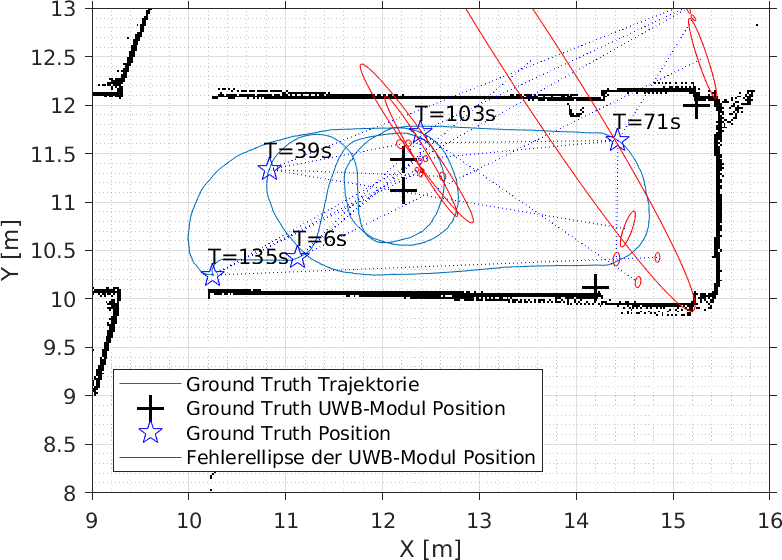
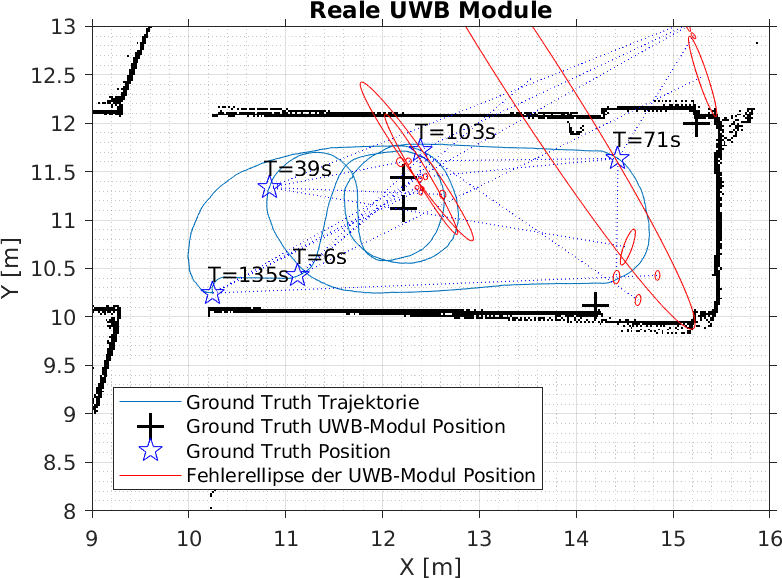
Diagramme aktualisiert.

diff --git a/presentation.tex b/presentation.tex
@@ -498,6 +498,7 @@
 %
 %	- Warum ist die Odometrie so wichtig?
 %	- Wie bin ich an die Ground Truth Trajektorie gekommen?
+%	- /.../bachelor-thesis/auswertungen/trajectory/auswertung.m
 %
 %%%%%%%%%%
 \begin{frame}{Odometrie}
@@ -535,7 +536,7 @@
 
 %%%%%%%%%%%%%%%%%%%%%%%%%%%%%%%%%%%%%%%%%%%%%%%%%%%%%%%%%%%%%%%%%%%%%%%%%%%%%%%%
 %
-% 
+%	- /.../bachelor-thesis/auswertungen/ro_slam_data/pose_diff.m
 %
 %%%%%%%%%%
 \begin{frame}{Positionsschätzung der Roboterplattform}
@@ -573,36 +574,36 @@
 
 %%%%%%%%%%%%%%%%%%%%%%%%%%%%%%%%%%%%%%%%%%%%%%%%%%%%%%%%%%%%%%%%%%%%%%%%%%%%%%%%
 %
-% 
+%	- /.../bachelor-thesis/auswertungen/ro_slam_data/viz_bor_mean_cov.m
 %
 %%%%%%%%%%
 \begin{frame}{Positionsschätzung der UWB Module}
 
 	\begin{figure}
 		\centering
-		\begin{subfigure}{0.4\linewidth}
+		\begin{subfigure}{0.41\linewidth}
 			\centering
 			\includegraphics[width=\linewidth]{Record_2018-02-08-12-33-53_filtered_3_beacon_error}
-			\caption{Reale UWB Module}
+			%\caption{Reale UWB Module}
 		\end{subfigure}
 		\hfill
-		\begin{subfigure}{0.4\linewidth}
+		\begin{subfigure}{0.41\linewidth}
 			\centering
 			\includegraphics[width=\linewidth]{Record_2018-02-08-12-33-53_filtered_1_beacon_error}
-			\caption{Reale UWB Module}
+			%\caption{Reale UWB Module}
 		\end{subfigure}
 		\par
 		\bigskip
-		\begin{subfigure}{0.4\linewidth}
+		\begin{subfigure}{0.41\linewidth}
 			\centering
 			\includegraphics[width=\linewidth]{Record_2018-02-08-12-33-53_filtered_5_beacon_error}
-			\caption{Virtuelle UWB Module}
+			%\caption{Virtuelle UWB Module}
 		\end{subfigure}
 		\hfill
-		\begin{subfigure}{0.4\linewidth}
+		\begin{subfigure}{0.41\linewidth}
 			\centering
 			\includegraphics[width=\linewidth]{Record_2018-02-08-12-33-53_filtered_4_beacon_error}
-			\caption{Virtuelle UWB Module}
+			%\caption{Virtuelle UWB Module}
 		\end{subfigure}
 	\end{figure}
 
